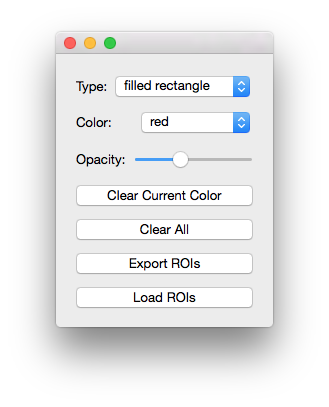
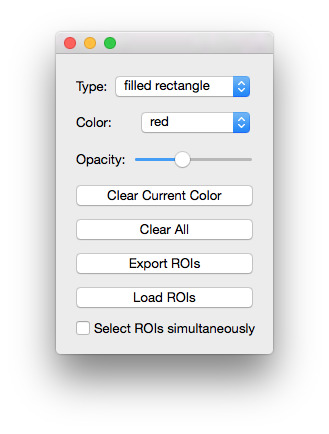
Add ability to create simultaneous ROIs

diff --git a/tests/test_pan_view.py b/tests/test_pan_view.py
@@ -20,15 +20,27 @@ class TestPanViewController(object):
         yield self.image_set
         self.image_set._roi_data = self.default_roi_data
         self.image_set._alpha = 1
+        self.image_set._subsets = []
+
+    def test_get_parent_set(self, test_set):
+        subset = test_set.create_subset()
+        assert self.controller._get_parent_set() == test_set
+        controller2 = PanViewController(subset, None)
+        assert controller2._get_parent_set() == test_set
 
     def test_add_ROI(self, test_set):
+        subset = test_set.create_subset()
         assert test_set.current_color_index == 0
         assert test_set.color == 'red'
         coords = np.array([[42, 42]])
         rows, cols = np.column_stack(coords)
         assert np.array_equal(
             test_set._roi_data[rows, cols],
-            np.array([[0., 0., 0., 0.]])
+            np.array([[0.0, 0.0, 0.0, 0.0]])
+        )
+        assert np.array_equal(
+            subset._roi_data[rows, cols],
+            np.array([[0.0, 0.0, 0.0, 0.0]])
         )
 
         self.image_set.alpha = 1
@@ -36,6 +48,10 @@ class TestPanViewController(object):
         assert np.array_equal(
             self.image_set._roi_data[rows, cols],
             np.array([[255.0, 0.0, 0.0, 255.]])
+        )
+        assert np.array_equal(
+            subset._roi_data[rows, cols],
+            np.array([[0.0, 0.0, 0.0, 0.0]])
         )
 
         self.image_set.alpha = .75
@@ -45,6 +61,10 @@ class TestPanViewController(object):
             self.image_set._roi_data[rows, cols],
             np.array([[165.0, 42.0, 42.0, 191.25]])
         )
+        assert np.array_equal(
+            subset._roi_data[rows, cols],
+            np.array([[0.0, 0.0, 0.0, 0.0]])
+        )
 
         self.image_set.alpha = .25
         self.image_set.current_color_index = 13
@@ -53,28 +73,78 @@ class TestPanViewController(object):
             self.image_set._roi_data[rows, cols],
             np.array([[160.0, 32.0, 240.0, 63.75]])
         )
+        assert np.array_equal(
+            subset._roi_data[rows, cols],
+            np.array([[0.0, 0.0, 0.0, 0.0]])
+        )
+
+        self.image_set.alpha = 1
+        self.image_set.current_color_index = 0
+        test_set.simultaneous_roi = True
+        self.controller.add_ROI(coords)
+        assert np.array_equal(
+            self.image_set._roi_data[rows, cols],
+            np.array([[255.0, 0.0, 0.0, 255.0]])
+        )
+        assert np.array_equal(
+            subset._roi_data[rows, cols],
+            np.array([[255.0, 0.0, 0.0, 255.0]])
+        )
+        self.image_set.current_color_index = 1
+        test_set.simultaneous_roi = False
+        self.controller.add_ROI(coords)
+        assert np.array_equal(
+            self.image_set._roi_data[rows, cols],
+            np.array([[165.0, 42.0, 42.0, 255.0]])
+        )
+        assert np.array_equal(
+            subset._roi_data[rows, cols],
+            np.array([[255.0, 0.0, 0.0, 255.0]])
+        )
 
     def test_erase_ROI(self, test_set):
+        subset = test_set.create_subset()
         coords = np.array([[42, 42]])
         rows, cols = np.column_stack(coords)
         test_set.add_coords_to_roi_data_with_color(coords, 'red')
+        subset.add_coords_to_roi_data_with_color(coords, 'red')
         assert np.array_equal(
             test_set._roi_data[rows, cols],
-            np.array([[255.0, 0.0, 0.0, 255.]])
+            np.array([[255.0, 0.0, 0.0, 255.0]])
+        )
+        assert np.array_equal(
+            subset._roi_data[rows, cols],
+            np.array([[255.0, 0.0, 0.0, 255.0]])
         )
         self.controller.erase_ROI(coords)
         assert np.array_equal(
             test_set._roi_data[rows, cols],
             np.array([[0.0, 0.0, 0.0, 0.0]])
         )
+        assert np.array_equal(
+            subset._roi_data[rows, cols],
+            np.array([[255.0, 0.0, 0.0, 255.0]])
+        )
         test_set.add_coords_to_roi_data_with_color(coords, 'brown')
         assert np.array_equal(
             test_set._roi_data[rows, cols],
-            np.array([[165.0, 42.0, 42.0, 255.]])
+            np.array([[165.0, 42.0, 42.0, 255.0]])
         )
         self.controller.erase_ROI(coords)
         assert np.array_equal(
             test_set._roi_data[rows, cols],
+            np.array([[0.0, 0.0, 0.0, 0.0]])
+        )
+        test_set.simultaneous_roi = True
+        test_set.add_coords_to_roi_data_with_color(coords, 'red')
+        subset.add_coords_to_roi_data_with_color(coords, 'red')
+        self.controller.erase_ROI(coords)
+        assert np.array_equal(
+            test_set._roi_data[rows, cols],
+            np.array([[0.0, 0.0, 0.0, 0.0]])
+        )
+        assert np.array_equal(
+            subset._roi_data[rows, cols],
             np.array([[0.0, 0.0, 0.0, 0.0]])
         )
 

diff --git a/pdsspect/selection.py b/pdsspect/selection.py
@@ -104,6 +104,9 @@ class SelectionController(object):
             color=color
         )
 
+    def set_simultaneous_roi(self, state):
+        self.image_set.simultaneous_roi = state
+
 
 class Selection(QtWidgets.QWidget, PDSSpectImageSetViewBase):
     """Window to make/clear/load/export ROIs and choose selection mode/color
@@ -141,8 +144,8 @@ class Selection(QtWidgets.QWidget, PDSSpectImageSetViewBase):
         Slider to determine opacity for ROIs
     opacity_layout : :class:`QtWidgets.QHBoxLayout <PySide.QtGui.QHBoxLayout>`
         Horizontal box layout for opacity slider
-    clear_current_color_btn : :class:`QtWidgets.QPushButton
-        <PySide.QtGui.QPushButton>`
+    clear_current_color_btn : :class:`QtWidgets.QPushButton\
+    <PySide.QtGui.QPushButton>`
         Button to clear all ROIs will the current color
     clear_all_btn : :class:`QtWidgets.QPushButton <PySide.QtGui.QPushButton>`
         Button to clear all ROIs
@@ -150,6 +153,9 @@ class Selection(QtWidgets.QWidget, PDSSpectImageSetViewBase):
         Export ROIs to ``.npz`` file
     load_btn : :class:`QtWidgets.QPushButton <PySide.QtGui.QPushButton>`
         Load ROIs from ``.npz`` file
+    simultaneous_roi_box : :class:`QtWidgets.QPushButton\
+    <PySide.QtGui.QPushButton>`
+        When checked, new ROIs appear in every window
     main_layout : :class:`QtWidgets.QVBoxLayout <PySide.QtGui.QVBoxLayout>`
         Vertical Box layout for main layout
     """
@@ -205,6 +211,13 @@ class Selection(QtWidgets.QWidget, PDSSpectImageSetViewBase):
         self.load_btn = QtWidgets.QPushButton("Load ROIs")
         self.load_btn.clicked.connect(self.show_open_dialog)
 
+        self.simultaneous_roi_box = QtWidgets.QCheckBox(
+            'Select ROIs simultaneously'
+        )
+        self.simultaneous_roi_box.stateChanged.connect(
+            self.select_simultaneous_roi
+        )
+
         self.main_layout = QtWidgets.QVBoxLayout()
         self.main_layout.addLayout(self.type_layout)
         self.main_layout.addLayout(self.color_layout)
@@ -213,6 +226,7 @@ class Selection(QtWidgets.QWidget, PDSSpectImageSetViewBase):
         self.main_layout.addWidget(self.clear_all_btn)
         self.main_layout.addWidget(self.export_btn)
         self.main_layout.addWidget(self.load_btn)
+        self.main_layout.addWidget(self.simultaneous_roi_box)
 
         self.setLayout(self.main_layout)
 
@@ -339,3 +353,8 @@ class Selection(QtWidgets.QWidget, PDSSpectImageSetViewBase):
             filter='Selections(*.npz)',
         )
         self.load_selections(selected_files)
+
+    def select_simultaneous_roi(self, state):
+        self.controller.set_simultaneous_roi(
+            self.simultaneous_roi_box.isChecked()
+        )

diff --git a/tests/test_pdsspect_image_set.py b/tests/test_pdsspect_image_set.py
@@ -42,6 +42,7 @@ class TestPDSSpectImageSet(object):
             float)
         self.test_set._maskrgb_obj = Image(0, 0, self.test_set._maskrgb)
         self.test_set._subsets = []
+        self.test_set._simultaneous_roi = False
 
     def test_init(self):
         test_set = self.test_set
@@ -70,6 +71,7 @@ class TestPDSSpectImageSet(object):
         assert isinstance(test_set._maskrgb_obj, Image)
         test_shape = (self.centerV * 2, self.centerH * 2)
         assert np.array_equal(test_set.shape, test_shape)
+        assert not test_set._simultaneous_roi
 
     def test_register(self):
         assert self.test_set._views == []
@@ -634,6 +636,41 @@ class TestPDSSpectImageSet(object):
         assert len(self.test_set.subsets) == 0
         assert subset not in self.test_set.subsets
 
+    def test_simultaneous_roi(self):
+        subset = self.test_set.create_subset()
+        assert not self.test_set._simultaneous_roi
+        assert not self.test_set.simultaneous_roi
+        assert not subset._simultaneous_roi
+        assert not subset.simultaneous_roi
+        coords1 = np.array([[12, 12]])
+        rows1, cols1 = np.column_stack(coords1)
+        self.test_set.add_coords_to_roi_data_with_color(coords1, 'red')
+        assert np.array_equal(
+            self.test_set._roi_data[rows1, cols1],
+            np.array([[255.0, 0.0, 0.0, 255.0]])
+        )
+        assert not np.array_equal(
+            subset._roi_data[rows1, cols1],
+            np.array([[255.0, 0.0, 0.0, 255.0]])
+        )
+        self.test_set.simultaneous_roi = True
+        assert self.test_set._simultaneous_roi
+        assert subset._simultaneous_roi
+        assert np.array_equal(
+            subset._roi_data[rows1, cols1],
+            np.array([[255.0, 0.0, 0.0, 255.0]])
+        )
+        self.test_set.simultaneous_roi = False
+        self.test_set.add_coords_to_roi_data_with_color(coords1, 'brown')
+        assert np.array_equal(
+            self.test_set._roi_data[rows1, cols1],
+            np.array([[165.0, 42.0, 42.0, 255.0]])
+        )
+        assert np.array_equal(
+            subset._roi_data[rows1, cols1],
+            np.array([[255.0, 0.0, 0.0, 255.0]])
+        )
+
 
 class TestSubPDSSpectImageSet(object):
     image_set = PDSSpectImageSet(TEST_FILES)
@@ -655,3 +692,4 @@ class TestSubPDSSpectImageSet(object):
         assert subset.swap_xy == self.image_set.swap_xy
         assert subset.shape == self.image_set.shape
         assert subset.images == self.image_set.images
+        assert not subset._simultaneous_roi

diff --git a/pdsspect/pan_view.py b/pdsspect/pan_view.py
@@ -5,7 +5,7 @@ from qtpy import QtWidgets
 
 from .roi import Polygon, Rectangle, Pencil
 from .pds_image_view_canvas import PDSImageViewCanvas
-from .pdsspect_image_set import PDSSpectImageSetViewBase
+from .pdsspect_image_set import PDSSpectImageSetViewBase, SubPDSSpectImageSet
 
 
 class PanViewController(object):
@@ -30,6 +30,13 @@ class PanViewController(object):
         self.image_set = image_set
         self.view = view
 
+    def _get_parent_set(self):
+        if isinstance(self.image_set, SubPDSSpectImageSet):
+            image_set = self.image_set.parent_set
+        else:
+            image_set = self.image_set
+        return image_set
+
     def add_ROI(self, coordinates):
         """Add a region of interest
 
@@ -43,10 +50,18 @@ class PanViewController(object):
             coordinates and the second are the corresponding y coordinates.
         """
 
-        self.image_set.add_coords_to_roi_data_with_color(
-            coordinates=coordinates,
-            color=self.image_set.color,
-        )
+        if self.image_set.simultaneous_roi:
+            parent_set = self._get_parent_set()
+            for image_set in [parent_set] + parent_set.subsets:
+                image_set.add_coords_to_roi_data_with_color(
+                    coordinates=coordinates,
+                    color=image_set.color,
+                )
+        else:
+            self.image_set.add_coords_to_roi_data_with_color(
+                coordinates=coordinates,
+                color=self.image_set.color,
+            )
 
     def erase_ROI(self, coordinates):
         """Erase any region of interest inside coordinates
@@ -61,7 +76,12 @@ class PanViewController(object):
             coordinates and the second are the corresponding y coordinates.
         """
 
-        self.image_set._erase_coords(coordinates)
+        if self.image_set.simultaneous_roi:
+            parent_set = self._get_parent_set()
+            for image_set in [parent_set] + parent_set.subsets:
+                image_set._erase_coords(coordinates)
+        else:
+            self.image_set._erase_coords(coordinates)
 
 
 class PanView(QtWidgets.QWidget, PDSSpectImageSetViewBase):

diff --git a/pdsspect/pdsspect_image_set.py b/pdsspect/pdsspect_image_set.py
@@ -140,6 +140,7 @@ class PDSSpectImageSet(object):
         self._roi_data = self._maskrgb.get_data().astype(float)
         self._maskrgb_obj = Image(0, 0, self._maskrgb)
         self._subsets = []
+        self._simultaneous_roi = False
 
     def _determin_shape(self):
         shape = []
@@ -662,6 +663,30 @@ class PDSSpectImageSet(object):
         if isinstance(subset, SubPDSSpectImageSet) and subset in self._subsets:
             self._subsets.remove(subset)
 
+    @property
+    def simultaneous_roi(self):
+        """:obj:`bool` : If true, new ROIs appear in every view
+
+        Setting :attr:`simultaneous_roi` will set all windows to have the same
+        ROIs as the first window. Any new ROI created will appear in each
+        window
+        """
+
+        return self._simultaneous_roi
+
+    @simultaneous_roi.setter
+    def simultaneous_roi(self, state):
+        self._simultaneous_roi = state
+        if state:
+            for subset in self.subsets:
+                subset._simultaneous_roi = state
+                subset._roi_data = self._roi_data.copy()
+                for view in subset._views:
+                    view.set_roi_data()
+        else:
+            for subset in self.subsets:
+                subset._simultaneous_roi = state
+
 
 class SubPDSSpectImageSet(PDSSpectImageSet):
     """A Subset of an :class:`PDSSpectImageSet`
@@ -692,6 +717,7 @@ class SubPDSSpectImageSet(PDSSpectImageSet):
         self._flip_x = parent_set.flip_x
         self._flip_y = parent_set.flip_y
         self._swap_xy = parent_set.swap_xy
+        self._simultaneous_roi = parent_set.simultaneous_roi
 
     def _determin_shape(self):
         self.shape = self.parent_set.shape

diff --git a/tests/test_selection.py b/tests/test_selection.py
@@ -106,6 +106,13 @@ class TestSelectionController(object):
             self.subset._roi_data[4, 2], [255.0, 0.0, 0.0, 255.]
         )
 
+    def test_set_simultaneous_roi(self, controller):
+        assert not self.image_set.simultaneous_roi
+        controller.set_simultaneous_roi(True)
+        assert self.image_set.simultaneous_roi
+        controller.set_simultaneous_roi(False)
+        assert not self.image_set.simultaneous_roi
+
 
 class TestSelection(object):
     image_set = PDSSpectImageSet([FILE_1])
@@ -291,3 +298,12 @@ class TestSelection(object):
             assert np.array_equal(
                 pixel, [0.0, 100.0, 0.0, 255.]
             )
+
+    def test_select_simultaneous_roi(self, qtbot, selection):
+        selection.show()
+        qtbot.add_widget(selection)
+        assert not self.image_set.simultaneous_roi
+        selection.simultaneous_roi_box.setChecked(True)
+        assert self.image_set.simultaneous_roi
+        selection.simultaneous_roi_box.setChecked(False)
+        assert not self.image_set.simultaneous_roi
